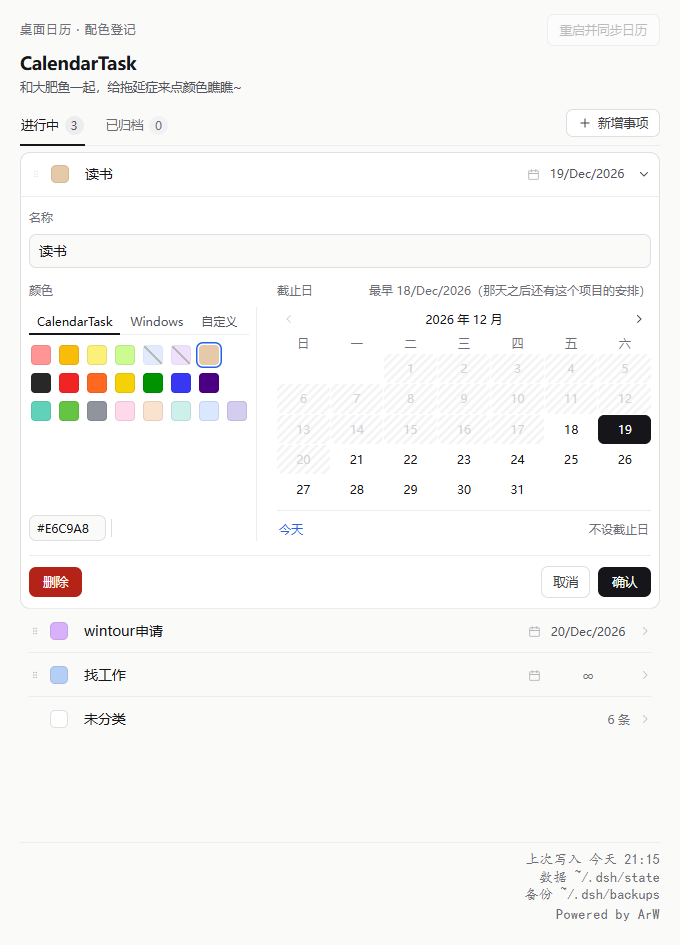
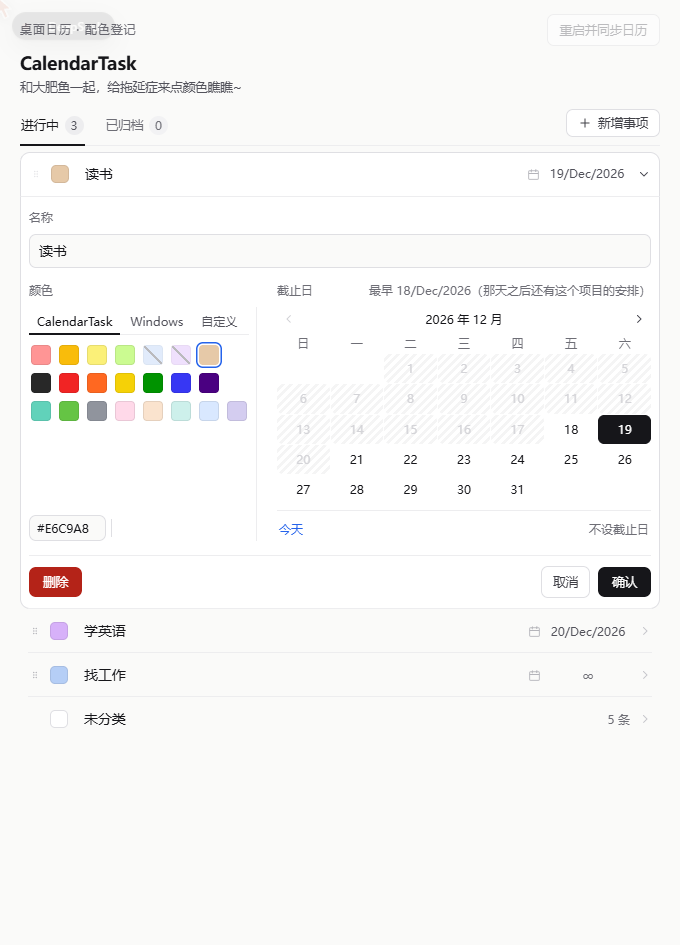
style(panel): 去掉底栏四行常驻文字（上次写入/数据/备份/署名），只留临时消息

diff --git a/client.js b/client.js
@@ -349,22 +349,13 @@ window.__ModuleLoader__.load({
 .ctp-addbtn{align-self:center;height:28px;margin:0 0 4px auto;padding:0 10px;
   border-radius:var(--r-sm);font-size:12px}
 
-/* 页脚 */
-/* 底栏：一行一行的右对齐小字，像盖在页脚的印记——
-   小字号、贴紧的行高、不抢眼，四行全部靠右，署名压在最底下。
-   字号下限是 12px：再小对比度检查会拦，所以"小"靠 line-height 收紧和颜色变淡做。
-   字体跟面板一致（继承 .ctp 的默认无衬线），不另外指定。 */
-.ctp-more{display:flex;flex-direction:column;align-items:flex-end;gap:0;
-  margin-top:auto;padding-top:8px;border-top:1px solid var(--line);
-  font-size:12px;line-height:1.25;color:var(--faint);text-align:right}
-.ctp-meta{display:flex;flex-direction:column;align-items:flex-end;gap:0;
-  line-height:1.25;letter-spacing:.01em;min-width:0}
-.ctp-meta > span{min-width:0;max-width:100%;overflow:hidden;
-  text-overflow:ellipsis;white-space:nowrap}
-.ctp-flash{min-width:0;max-width:100%}
-.ctp-sign{margin:2px 0 0;white-space:nowrap;letter-spacing:.03em;color:var(--faint)}
-.ctp-more .ctp-flash{color:var(--ink-2)}
-.ctp-more .ctp-flash[data-kind="err"]{color:var(--danger)}
+/* 页脚：现在只剩临时消息（"已保存"、冲突提示这类），正常状态下不占位置、不画线。
+   以前这里是一竖列右对齐的小字（上次写入 / 数据 / 备份 / 署名），用户 2026-11-25 让去掉。 */
+.ctp-flashrow{margin-top:auto;padding-top:8px;display:flex;
+  flex-direction:column;align-items:flex-end;font-size:12px;line-height:1.25;
+  text-align:right}
+.ctp-flash{min-width:0;max-width:100%;color:var(--ink-2)}
+.ctp-flash[data-kind="err"]{color:var(--danger)}
 .ctp-emptyhint{padding:16px 2px;font-size:12px;color:var(--faint)}
 
 /* 未分类：日历上有正文、但还没归到任何事项的那些行。
@@ -504,8 +495,6 @@ window.__ModuleLoader__.load({
       const [plain, setPlain] = useState({});        // {日期: [还没上色的正文行]}
       const [plainOpen, setPlainOpen] = useState(null); // 哪个标签页里的未分类展开着
       const [plainDrag, setPlainDrag] = useState(null); // 正拖着的那一行 {iso,text}
-      const [lastWrite, setLastWrite] = useState(null);  // 上次真正写进日历的时刻
-      const [paths, setPaths] = useState(null);          // 数据 / 备份的真实路径（只用于 tooltip）
       const pendingSave = useRef(null);
       const timer = useRef(null);
       const revRef = useRef(null);          // 读到的那份登记表指纹，保存时带上
@@ -574,8 +563,6 @@ window.__ModuleLoader__.load({
           setArchived(j.archived || 0);
           setPending(!!j.pending);
           setReleased(j.released || []);
-          setLastWrite(j.lastWrite || null);
-          setPaths(j.paths || null);
           revRef.current = j.rev || null;
           if (j.justArchived) flash('本次归档 ' + j.justArchived + ' 条');
         } catch (e) {
@@ -1021,13 +1008,6 @@ window.__ModuleLoader__.load({
         h('span', { className: 'ctp-chev' }));
 
       const flashing = msg.text;
-      /* 「上次写入」写成「今天 21:15」/「11/24 21:15」；没写过就明说 */
-      const lastWriteLabel = (() => {
-        const m = /^(\d{4})-(\d{2})-(\d{2}) (\d{2}):(\d{2})/.exec(lastWrite || '');
-        if (!m) return null;
-        const same = (m[1] + '-' + m[2] + '-' + m[3]) === localISO();
-        return (same ? '今天 ' : (+m[2]) + '/' + (+m[3]) + ' ') + m[4] + ':' + m[5];
-      })();
 
       /* 未分类按日期分到两个标签页：今天及以后算"进行中"，过去的算"已归档" */
       const todayIso = localISO();
@@ -1176,19 +1156,8 @@ window.__ModuleLoader__.load({
                 unclassified('archive') ? [unclassified('archive')] : [])
               : h('div', { className: 'ctp-emptyhint' }, '没有归档')),
 
-        h('div', { className: 'ctp-more' },
-          flashing
-            ? h('span', { className: 'ctp-flash', 'data-kind': msg.kind }, flashing)
-            : h('span', {
-              className: 'ctp-meta',
-              title: '数据：' + ((paths && paths.state) || '~/.dsh/state')
-                + '\n备份：' + ((paths && paths.backup) || '~/.dsh/backups')
-                + '（每次写日历之前自动备份）',
-            },
-              h('span', null, lastWriteLabel ? '上次写入 ' + lastWriteLabel : '还没写入过'),
-              h('span', null, '数据 ~/.dsh/state'),
-              h('span', null, '备份 ~/.dsh/backups')),
-          h('span', { className: 'ctp-sign' }, 'Powered by ArW')),
+        flashing ? h('div', { className: 'ctp-flashrow' },
+          h('span', { className: 'ctp-flash', 'data-kind': msg.kind }, flashing)) : null,
         delAsk ? h('div', {
           className: 'ctp-modal', role: 'dialog', 'aria-modal': 'true', 'aria-label': '删除确认',
           onKeyDown: e => {

diff --git a/README.md b/README.md
@@ -27,7 +27,7 @@
 - **展开**以后才能改名称、挑颜色（左边 22 色照抄 DesktopCal 自己的色板，右边是日期选择器，中间一条浅灰竖线），最下面是「删除 / 取消 / 确认」。
 - 「未分类」是一个伪事项：展开后列出日历上所有还没有归属的正文，**行拖到哪个事项上就归谁**。
 - 顶部「重启并同步日历」：写库之后点一下，桌面日历重启，改动立刻可见。
-- 底栏：上次写入 / 数据目录 / 备份目录 / 署名。
+- 底栏不再放常驻文字，只在保存 / 出错时在右下角闪一句就消失。
 
 ## 安装
 
